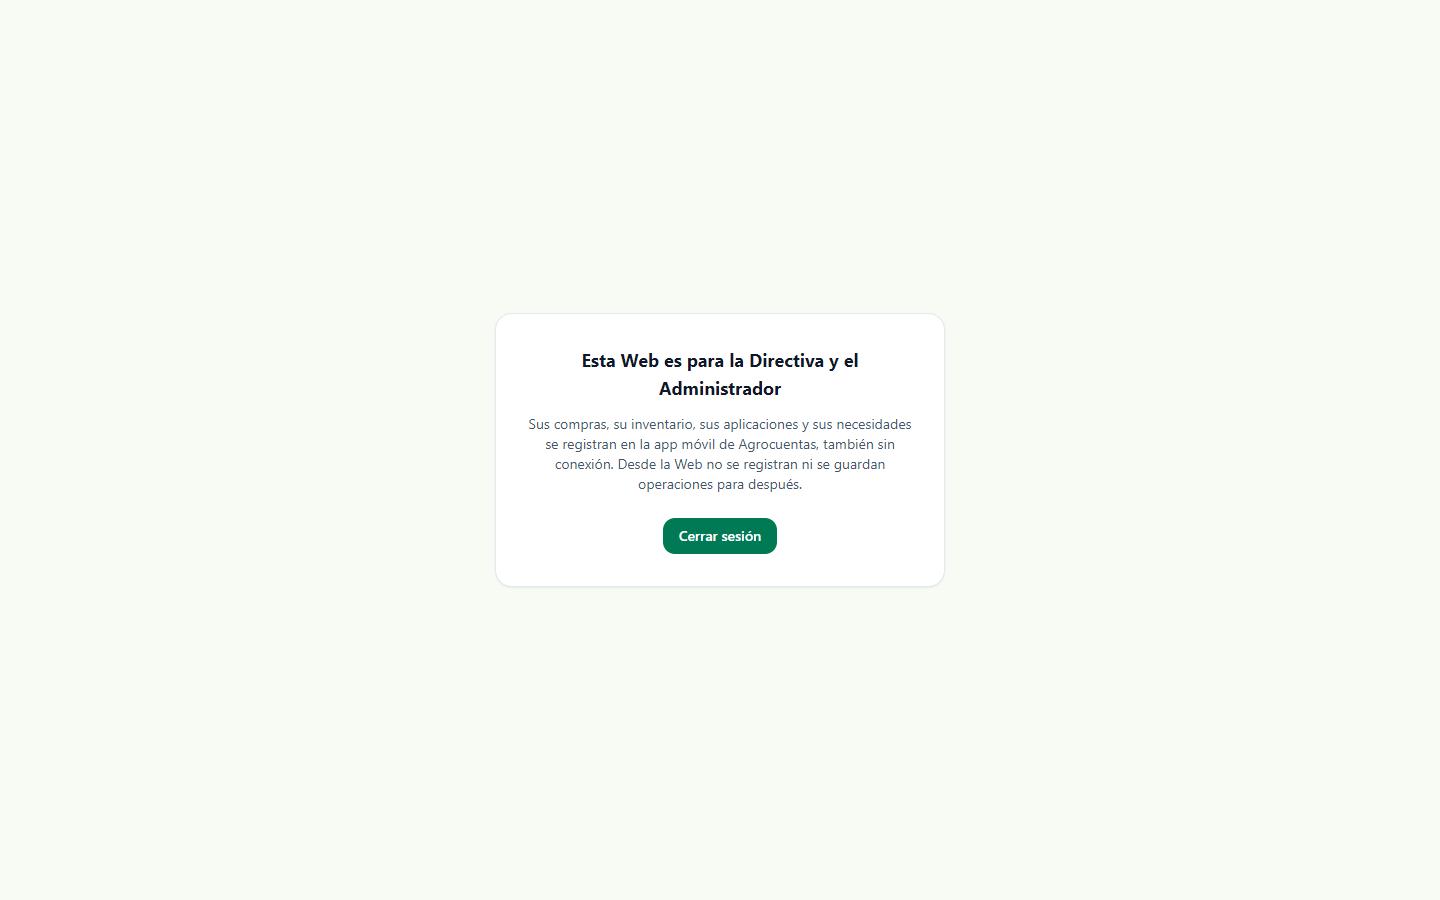
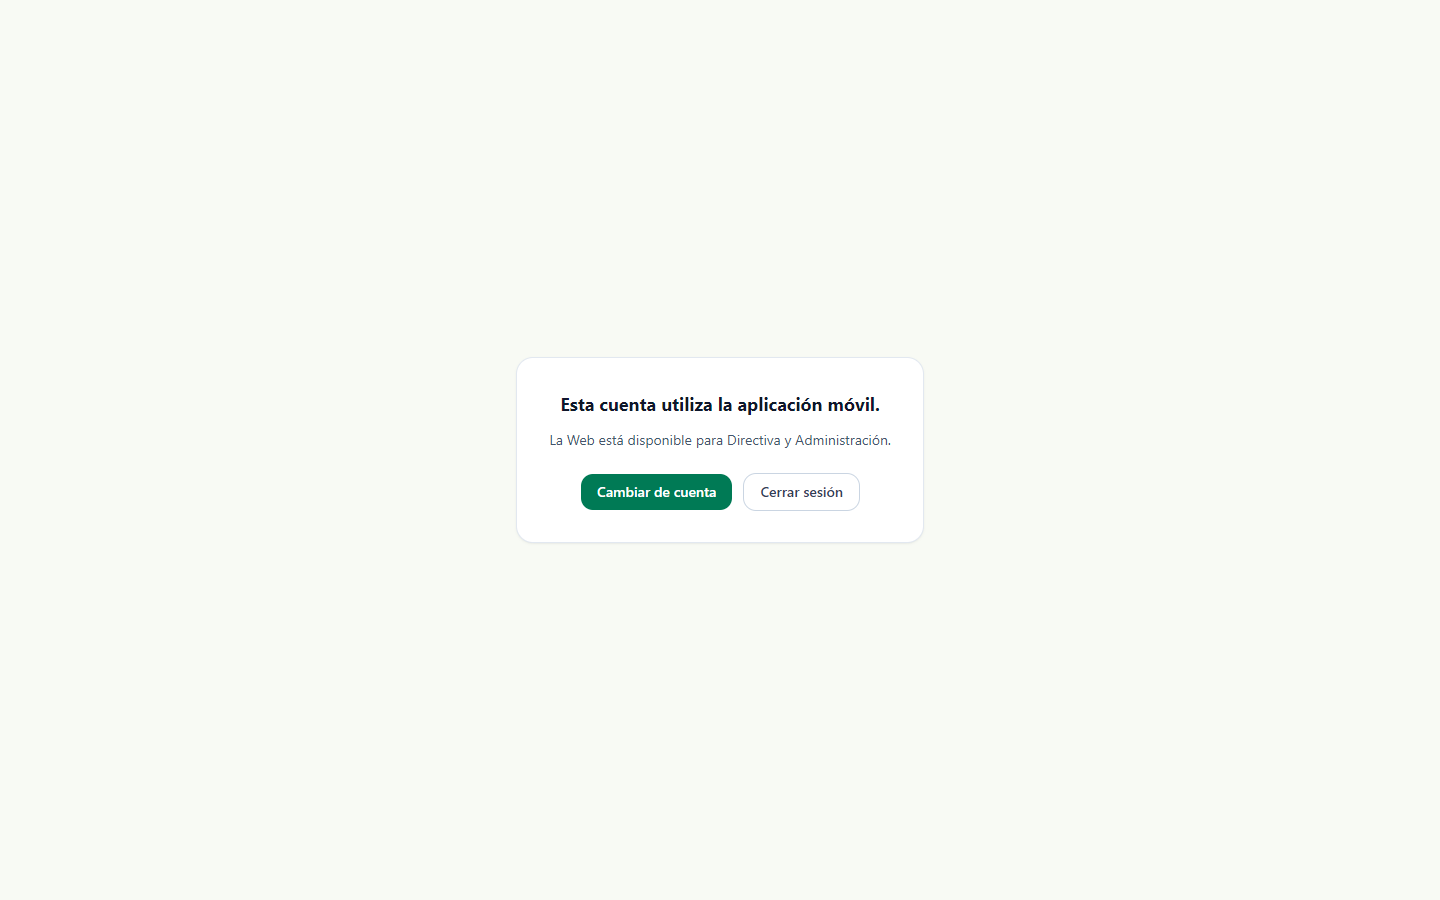
docs(design): el material de rediseño refleja la Web sólo institucional (aviso para AGRICULTOR, sin vistas del agricultor); capture.mjs registra las llamadas a la API

Changed region(s): [[0.375, 0.3733, 0.625, 0.6222]]

diff --git a/docs/design/web-redesign-input/INVENTARIO_VISTAS.md b/docs/design/web-redesign-input/INVENTARIO_VISTAS.md
@@ -2,7 +2,7 @@
 
 Insumo para el rediseño de la Web en Claude Design. Describe lo que hace el código, no lo que debería hacer.
 
-- **Fuente:** `_wt/ET2-BE/Web/src`, rama `feat/etapa3-estimacion-borrador`, commit `9dc80f0`. Redactado leyendo el código; después se recorrió la Web en ejecución y las capturas de INDICE_CAPTURAS.md confirman las pantallas principales.
+- **Fuente:** `_wt/ET2-BE/Web/src`, rama `feat/etapa3-estimacion-borrador`, commit `9dc80f0`, más la limpieza `741e730` (rama `chore/web-solo-institucional`): **la Web es sólo de Directiva y Administración** (decisión del autor del 2026-11-12) y se retiraron las vistas del agricultor. Redactado leyendo el código; después se recorrió la Web en ejecución y las capturas de INDICE_CAPTURAS.md confirman las pantallas principales.
 - **Fecha de redacción:** 2026-11-12.
 - **Convenciones:** «la persona» cuando no se sabe el género. «(no verificado)» marca lo que el código no deja claro. Los permisos que decide el servidor se indican como tales: la Web sólo oculta botones o rutas.
 
@@ -13,7 +13,7 @@ Insumo para el rediseño de la Web en Claude Design. Describe lo que hace el có
 | # | Pantalla (nombre visible) | Ruta | Roles | En el menú |
 |---|---|---|---|---|
 | 1 | Resumen | `/colectivo/resumen` | DIRECTIVA, ADMINISTRADOR | Sí |
-| 2 | Campañas | `/campaigns` | DIRECTIVA, ADMINISTRADOR (AGRICULTOR sólo con la bandera heredada) | Sí |
+| 2 | Campañas | `/campaigns` | DIRECTIVA, ADMINISTRADOR | Sí |
 | 3 | Detalle de campaña | `/campaigns/:id` | Igual que Campañas | No (se abre desde Campañas) |
 | 4 | Necesidades y propuestas | `/colectivo/propuestas` | DIRECTIVA, ADMINISTRADOR | Sí |
 | 5 | Compras conjuntas (lista) | `/colectivo/compras-conjuntas` | DIRECTIVA, ADMINISTRADOR | Sí |
@@ -24,20 +24,13 @@ Insumo para el rediseño de la Web en Claude Design. Describe lo que hace el có
 | 10 | Bitácora | `/audit-logs` | DIRECTIVA, ADMINISTRADOR | Sí (grupo «Administración») |
 | 11 | Usuarios | `/users` | Sólo ADMINISTRADOR | Sí (grupo «Administración», sólo ADMINISTRADOR) |
 | 12 | Ingresar (inicio de sesión) | `/login` | Sin sesión | No |
-| 13 | Aviso «Esta Web es para la Directiva y el Administrador» | `/sin-acceso-web` | Cualquier rol no colectivo (AGRICULTOR) | No |
+| 13 | Aviso «Esta cuenta utiliza la aplicación móvil» | `/sin-acceso-web` | Cualquier rol no colectivo (AGRICULTOR) | No |
 | 14 | Estimación del consumo descargada (copia sin conexión) | `/estimacion/copia-sin-conexion` | Sin guarda de ruta; muestra datos sólo con un contexto local vigente | No (enlaces desde Ingresar y Estimación) |
-| 15 | Calendario operativo | `/calendar` | DIRECTIVA, ADMINISTRADOR (AGRICULTOR con la bandera) | No para el menú colectivo; sí en el menú heredado |
-| 16 | Panel principal (dashboard heredado) | `/dashboard` | Sólo AGRICULTOR con la bandera | Sólo menú heredado |
-| 17 | Parcelas y cultivos | `/plots` | Sólo AGRICULTOR con la bandera | Sólo menú heredado |
-| 18 | Aplicaciones | `/applications` | Sólo AGRICULTOR con la bandera | Sólo menú heredado |
-| 19 | Reportes | `/reports` | Sólo AGRICULTOR con la bandera | Sólo menú heredado |
-| 20 | Inventario | `/inventory` | Sólo AGRICULTOR con la bandera | Sólo menú heredado |
-| 21 | Compras y finanzas | `/purchases` | Sólo AGRICULTOR con la bandera | Sólo menú heredado |
-| 22 | Sincronización offline | `/sync` | Sólo AGRICULTOR con la bandera | Sólo menú heredado |
+| 15 | Calendario operativo («Agenda y alertas») | `/calendar` | DIRECTIVA, ADMINISTRADOR | No (pantalla heredada, por URL) |
 
-«Bandera» = `legacyFarmerWebEnabled()`, es decir, la Web compilada con `VITE_LEGACY_FARMER_WEB=enabled`. Sin ella, el AGRICULTOR sólo llega al aviso de la pantalla 13.
+No hay vistas del agricultor: las páginas `/dashboard`, `/plots`, `/applications`, `/reports`, `/inventory`, `/purchases` y `/sync` y la bandera `VITE_LEGACY_FARMER_WEB` se retiraron el 2026-11-12 (`741e730`). Una cuenta AGRICULTOR, entre por donde entre, sólo llega al aviso de la pantalla 13.
 
-Rutas que sólo redirigen (no son pantallas): `/`, `/colectivo/tendencias`, `/colectivo/estimacion`, `/colectivo/productos`, `/colectivo/reconciliacion`, `/directiva` (ver §5).
+Rutas que sólo redirigen (no son pantallas): `/`, `/colectivo/tendencias`, `/colectivo/estimacion`, `/colectivo/productos`, `/colectivo/reconciliacion`, `/directiva` y cualquier otra ruta (`*`) (ver §5).
 
 ---
 
@@ -63,15 +56,14 @@ Fuente: `lib/navigation.ts` (`COLLECTIVE_MENU`, `LEGACY_MENU`, `menuPathsFor`) y
 - Estado de conexión: «En línea» (oculto < sm) o «Sin conexión» (siempre visible).
 - No lleva el título: cada pantalla pone su único `h1` con `PageHeader`. El título de la pestaña del navegador es «<título> · Agrocuentas».
 
-**Menú heredado del agricultor (sólo con la bandera)**: Dashboard · Campañas · Parcelas · Inventario · Aplicaciones · Calendario · Reportes · Compras · Sincronización (con un contador de operaciones en cola). Barra inferior: Dashboard · Parcelas · Inventario · Aplicaciones.
-
 **Guardas de ruta** (`components/*-route.tsx`)
 - `CollectiveRoute`: DIRECTIVA o ADMINISTRADOR; otro rol va a su pantalla inicial; sin sesión, a `/login`.
 - `AdminRoute`: sólo ADMINISTRADOR.
 - `RoleRoute` (Bitácora): DIRECTIVA o ADMINISTRADOR.
-- `PrivateRoute` (Campañas, Detalle de campaña, Calendario): DIRECTIVA, ADMINISTRADOR o, con la bandera, AGRICULTOR.
-- `FarmerRoute`: sólo AGRICULTOR y sólo con la bandera.
-- Pantalla inicial (`homePathFor`): DIRECTIVA y ADMINISTRADOR → Resumen; otro rol → `/sin-acceso-web` (o `/dashboard` con la bandera).
+- `PrivateRoute` (Campañas, Detalle de campaña, Calendario): DIRECTIVA o ADMINISTRADOR; otro rol, al aviso.
+- Pantalla inicial (`homePathFor`): DIRECTIVA y ADMINISTRADOR → Resumen; otro rol → `/sin-acceso-web`.
+- Ruta comodín (`*`): cualquier ruta desconocida o antigua lleva a la pantalla inicial de la sesión (o a `/login`).
+- El servidor sigue decidiendo los permisos: las guardas sólo evitan mostrar y consultar.
 
 ---
 
@@ -122,7 +114,7 @@ Fuente: `lib/navigation.ts` (`COLLECTIVE_MENU`, `LEGACY_MENU`, `menuPathsFor`) y
 
 ### 4.2 Campañas — `/campaigns`
 
-- **Rol:** DIRECTIVA y ADMINISTRADOR crean, editan, abren y cierran (lo comprueba el servidor). Con la bandera, el AGRICULTOR sólo consulta y ve el aviso «Puede consultar las campañas; sólo la Directiva o el Administrador…» y «Sólo consulta» en cada fila.
+- **Rol:** DIRECTIVA y ADMINISTRADOR crean, editan, abren y cierran (lo comprueba el servidor). La página conserva una guarda defensiva («Sólo consulta») para un rol sin gestión, que la ruta ya no deja entrar.
 - **Objetivo:** gestionar las campañas compartidas del sindicato y abrir su detalle.
 - **Datos:**
   - Tarjeta «Campaña activa»: nombre, «Activa», inicio y fin estimado. Si el fin estimado ya pasó sin cierre registrado, «Fin estimado vencido · sin cierre registrado» (regla de la Web, no un dato del servidor).
@@ -142,7 +134,7 @@ Fuente: `lib/navigation.ts` (`COLLECTIVE_MENU`, `LEGACY_MENU`, `menuPathsFor`) y
 
 ### 4.3 Detalle de campaña — `/campaigns/:id`
 
-- **Rol:** el de Campañas. Para un rol no colectivo (AGRICULTOR con la bandera), las secciones colectivas muestran «Sin permiso».
+- **Rol:** el de Campañas. La página conserva una guarda defensiva (secciones colectivas con «Sin permiso» para un rol no colectivo), que la ruta ya no deja entrar.
 - **Objetivo:** ver en un solo lugar los datos de una campaña, su participación, su versión sellada y sus borradores de propuesta.
 - **Datos:**
   - «Datos generales»: nombre, estado, si es la activa, inicio, fin estimado (con el aviso de vencido), cierre registrado y notas.
@@ -436,12 +428,13 @@ Contenedor con el selector «Vista»: «Productos» (`?vista=productos`, por def
 - **Estados:** «Correo o contraseña incorrectos…», «Demasiados intentos…» (429), «Error de conexión…», botón desactivado sin datos.
 - **Relacionadas:** → pantalla inicial según el rol; → Copia sin conexión.
 
-### 4.13 Aviso «Esta Web es para la Directiva y el Administrador» — `/sin-acceso-web`
+### 4.13 Aviso para una cuenta AGRICULTOR — `/sin-acceso-web`
 
-- **Rol:** quien no es DIRECTIVA ni ADMINISTRADOR, sin la bandera. Un rol colectivo, o cualquiera con la bandera, es redirigido a su inicio.
-- **Objetivo:** explicar que el agricultor registra en la app móvil.
-- **Datos:** el texto «Sus compras, su inventario, sus aplicaciones y sus necesidades se registran en la app móvil…». Sin menú ni datos.
-- **Acciones:** «Cerrar sesión».
+- **Rol:** quien no es DIRECTIVA ni ADMINISTRADOR (el AGRICULTOR usa sólo la app móvil). Un rol colectivo es redirigido a su inicio.
+- **Objetivo:** decir, sin más, que esa cuenta usa la app.
+- **Datos:** «Esta cuenta utiliza la aplicación móvil.» y «La Web está disponible para Directiva y Administración.». Sin menú, sin enlaces, sin enlace de descarga y sin consultas institucionales: sólo se renueva la sesión.
+- **Acciones:** «Cambiar de cuenta» (cierra la sesión y abre el inicio de sesión) y «Cerrar sesión». Cerrar la sesión de la Web no deshabilita la cuenta ni afecta a la app.
+- **Se llega:** al iniciar sesión con esa cuenta y entrando por cualquier URL, incluidas las antiguas del agricultor y las institucionales (comprobado en el navegador, captura `01_acceso/03`).
 
 ### 4.14 Copia de la estimación sin conexión — `/estimacion/copia-sin-conexion`
 
@@ -457,7 +450,7 @@ Contenedor con el selector «Vista»: «Productos» (`?vista=productos`, por def
 
 ### 4.15 Calendario operativo — `/calendar`
 
-- **Rol:** `PrivateRoute`: DIRECTIVA y ADMINISTRADOR pueden abrirla por URL aunque no esté en su menú; el AGRICULTOR, con la bandera. El servidor admite los tres roles.
+- **Rol:** `PrivateRoute`: DIRECTIVA y ADMINISTRADOR pueden abrirla por URL aunque no esté en su menú. El servidor admite los tres roles.
 - **Objetivo:** ver eventos (vencimientos de lote, pagos, aplicaciones, compras programadas, stock bajo, cierre de campaña) y marcarlos.
 - **Datos:** tarjetas «Eventos visibles», «Próximos 7 días» y «Pendientes vencidos»; filtros Campaña, Tipo, Estado (Pendiente por defecto), Desde y Hasta; eventos agrupados por fecha.
 - **Acciones:** «Completar» y «Cancelar» por evento → diálogo «Completar evento» / «Cancelar evento» («Volver», «Confirmar» / «Cancelar evento»).
@@ -465,19 +458,9 @@ Contenedor con el selector «Vista»: «Productos» (`?vista=productos`, por def
 - Pantalla con el estilo anterior al rediseño: sin `PageHeader`, por lo que no tiene título visible (`h1`); la barra superior dice «Agenda y alertas».
 - **Comprobado en el recorrido** (captura `10_administracion/06`): la Directiva la abre por URL y ve el evento «Cierre estimado de Invierno 2026 (DEMO)» con «Completar» y «Cancelar».
 
-### 4.16–4.22 Pantallas heredadas del agricultor (sólo con la bandera)
+### 4.16–4.22 Pantallas del agricultor: retiradas
 
-Rutas `FarmerRoute`: el AGRICULTOR y sólo con `VITE_LEGACY_FARMER_WEB=enabled`. DIRECTIVA y ADMINISTRADOR son redirigidos a su inicio. Conservan el estilo anterior y no usan `PageHeader` (sin `h1`). Se describen a alto nivel; el detalle de cada formulario no se revisó (no verificado).
-
-| Pantalla | Ruta | Contenido principal (según el código) |
-|---|---|---|
-| Panel principal | `/dashboard` | Bienvenida y tarjetas de módulos. Hay tarjetas para ADMINISTRADOR y DIRECTIVA («Panel Directiva», «Usuarios», «Directiva») que nunca se ven, porque sólo entra el AGRICULTOR. |
-| Parcelas y cultivos | `/plots` | Pestañas Parcelas · Cultivos asignados · «Catalogo de cultivos». Botones según la pestaña: «Nueva parcela», «Asignar cultivo», «Nuevo cultivo». Diálogos para crear, editar, inactivar y asignar. |
-| Aplicaciones | `/applications` | Lista de aplicaciones de agroquímicos. «Nueva aplicación» (requiere campaña activa). Diálogos «Registrar aplicación», «Detalle de aplicación», «Anular aplicación». |
-| Reportes | `/reports` | 11 reportes (inventario actual, por campaña, por agricultor, compras por campaña, compras conjuntas, aplicaciones, consumo por producto y por cultivo, vencidos, cuentas y pagos, bitácora por campaña). Filtros y «Actualizar reporte». Sin descarga. |
-| Inventario | `/inventory` | Pestañas Stock · Productos · Lotes · Movimientos · Ajustes; ajustes por pérdida, vencimiento o ajuste. |
-| Compras y finanzas | `/purchases` | Pestañas Nueva compra · Historial · Proveedores · Cuentas por pagar; «Registrar abono». |
-| Sincronización offline | `/sync` | Cola local de operaciones: «Guardar en cola», «Actualizar datos», «Vaciar cola», «Reintentar como nueva», «Descartar». |
+Las pantallas `/dashboard`, `/plots`, `/applications`, `/reports`, `/inventory`, `/purchases` y `/sync`, su guarda `FarmerRoute`, la cola offline y los servicios y tipos que sólo ellas usaban se retiraron el 2026-11-12 (`741e730`). Sus rutas caen en la ruta comodín: el AGRICULTOR ve el aviso (§4.13) y la Directiva o la Administración vuelven a su Resumen.
 
 ---
 
@@ -490,6 +473,7 @@ Rutas `FarmerRoute`: el AGRICULTOR y sólo con `VITE_LEGACY_FARMER_WEB=enabled`.
 | `/colectivo/estimacion` | `/colectivo/historico?vista=estimacion`. |
 | `/colectivo/productos` | `/colectivo/catalogo?vista=productos`. |
 | `/colectivo/reconciliacion` | `/colectivo/catalogo?vista=equivalencias`. |
+| `*` (cualquier otra, incluidas las antiguas del agricultor) | Pantalla inicial de la sesión: Resumen, aviso (§4.13) o `/login`. |
 | `/directiva` | `/colectivo/propuestas` (conserva `?campaign=`). La página heredada «Panel Directiva» (`pages/directiva.page.tsx`, que ejecutaba compras y pagos) sigue en el código pero ninguna ruta la muestra. |
 
 ---
@@ -502,7 +486,6 @@ Rutas `FarmerRoute`: el AGRICULTOR y sólo con `VITE_LEGACY_FARMER_WEB=enabled`.
 - **Aviso «sin acceso Web»** para el AGRICULTOR.
 - **Calendario operativo**: accesible por URL para la Directiva y el Administrador.
 - **Permiso del sindicato «Sustituir responsable»**: plegado al final de la lista de Compras conjuntas, no en Usuarios ni en Administración.
-- **Páginas heredadas del agricultor** (§4.16–4.22) detrás de la bandera.
 - **Componentes de página no enrutados**: `CollectiveTrendsPage`, `EstimationPage`, `ProductsPage` y `ProductReconciliationPage` envuelven las vistas en su propio armazón, pero `App.tsx` no los usa (sólo se usan las vistas dentro de los contenedores).
 - **Páginas de desarrollo** (sólo con `npx vite`; `vite build` no las incluye):
   - `/src/dev/break-ui.html?datos=worst|demo|empty|one&pantalla=propuestas|historico|catalogo&vista=…`: Necesidades y propuestas, Histórico y Catálogo con datos sintéticos; rechaza toda escritura.
@@ -514,6 +497,5 @@ Rutas `FarmerRoute`: el AGRICULTOR y sólo con `VITE_LEGACY_FARMER_WEB=enabled`.
 
 - Cuándo envía el servidor `can_cancel_or_close` a quien no es responsable ni tiene «Administrar».
 - ~~El contenido del Calendario para la Directiva~~: comprobado en el recorrido (captura `10_administracion/06`). Sigue sin decidir si debe estar en la Web colectiva.
-- El detalle de los formularios de las pantallas heredadas del agricultor (§4.16–4.22).
 - Si la hora que se escribe y se muestra como «hora del servidor» en las convocatorias coincide con la del servidor: el campo `datetime-local` y las fechas usan la zona horaria del navegador.
 - Si el botón «Abrir» de Campañas aparece en una campaña ya abierta que no es la activa: la condición del código (`!isActive && !terminal`) lo permite; no se comprobó si el servidor puede devolver varias campañas abiertas.

diff --git a/docs/design/web-redesign-input/README.md b/docs/design/web-redesign-input/README.md
@@ -14,8 +14,8 @@ Material para rediseñar la Web de la Directiva en Claude Design y revisarlo en 
 
 | Pieza | Valor |
 |---|---|
-| Composición | Rama `feat/etapa3-estimacion-borrador`, commit **`9dc80f0`** (worktree `_wt/ET2-BE`). Este paquete se preparó en la rama `docs/web-redesign-input`, que parte de ese commit (worktree `_wt/WEB-DESIGN-INPUT`) |
-| Web en ejecución | Servidor de desarrollo Vite en `127.0.0.1:5175`, que sirve el árbol de `_wt/ET2-BE` en `9dc80f0` (sin cambios locales en `Web/src`). No es un build de producción |
+| Composición | Rama `feat/etapa3-estimacion-borrador`, commit **`9dc80f0`** (worktree `_wt/ET2-BE`), **más** la limpieza **`741e730`** de la rama `chore/web-solo-institucional` (worktree `_wt/WEB-SOLO-INST`): la Web es sólo de Directiva y Administración y se retiraron las vistas del agricultor. Este paquete está en la rama `docs/web-redesign-input`, que parte de `9dc80f0` e integra esa limpieza (worktree `_wt/WEB-DESIGN-INPUT`) |
+| Web en ejecución | Servidor de desarrollo Vite en `127.0.0.1:5175`, que sirve el árbol de `_wt/ET2-BE` en `9dc80f0` (sin cambios locales en `Web/src`), para las capturas institucionales. La limpieza no cambia ninguna pantalla institucional; el aviso del agricultor (`01_acceso/03`) y la verificación de acceso por rol se hicieron con Vite en `127.0.0.1:5176` sobre `741e730`. No es un build de producción |
 | API en ejecución | NestJS en el puerto 3350, desde el `dist` compilado el 2026-11-12 a las 12:03 a partir de `49ed870`. Entre `49ed870` y `9dc80f0`, `Back/src` sólo añade una prueba (`joint-purchase-calls.postgres.spec.ts`): el código de la API en ejecución es el de la composición |
 | Base | PostgreSQL del contenedor aislado `agro_et1_pg` (puerto 15434, sólo en `localhost`, base `agro_demo`), con 23 migraciones aplicadas; la última es `20261112180000_e2_pa_responsible_substitution` |
 | Datos | Sintéticos: el sindicato «Sindicato DEMO · datos sintéticos», con 15 cuentas de agricultor, 5 de Directiva y 2 de Administrador, 12 campañas «Invierno 2015–2026 (DEMO)», convocatorias en todos los estados, productos por identificar y estimaciones. No hay datos reales ni de la DEMO oficial |
@@ -51,6 +51,7 @@ No hizo falta crear una rama de composición: todo lo terminado está en `9dc80f
 | Estimación integrada en las propuestas (referencia fijada, E3-P1) | `f673f95` (Back), `2a25386`, `3b2099b` y `219d959` (Web) | Sí | `03_propuestas/02`, `03`, `07`, `08` |
 | Origen de la convocatoria (E3-P2) | `c87c352`, `fa44b5f` (Back), `91e9ef2` (Web) | Sí | `05_convocatorias/04`, `10` |
 | Exportación Excel y retirada del CSV | `eeaf327` (Back: rutas CSV retiradas), `7acf0a1` y `d5dc9cc` (Web) | Sí | `04_excel/*` y «Descargar Excel» en las pantallas |
+| Web sólo de Directiva y Administración (vistas del agricultor retiradas; aviso para la cuenta AGRICULTOR) | `741e730` (rama `chore/web-solo-institucional`) | Sí | `01_acceso/03` |
 
 La Web **no tiene ninguna exportación en PDF**: el PDF existe sólo en la app móvil.
 
@@ -59,6 +60,7 @@ La Web **no tiene ninguna exportación en PDF**: el PDF existe sólo en la app m
 - **Git:** contención de `main` y de la integración del rediseño; revisión de las ramas con commits fuera de la composición; ningún cambio local en `Web/src` ni en `Back/src`.
 - **Entorno:** API 3350 con health 200; Web 5175 con 200; 23 migraciones aplicadas. Sin túnel y sin exponer PostgreSQL.
 - **Capturas:** 109 PNG (102 de la Web, de ellas 17 de estados no reales rotulados, y 7 de Excel), revisadas en hojas de miniaturas. Un detector de la pantalla de inicio de sesión confirmó que ninguna captura con sesión quedó en `/login` (las primeras rondas sí; se rehicieron, ver LIMITACIONES). El índice coincide con los archivos.
+- **Acceso por rol tras la limpieza (`741e730`):** Web completa 586/586, `tsc` y build correctos. En el navegador, una cuenta AGRICULTOR, al iniciar sesión y por 14 URL directas, sólo ve el aviso, sin consultas institucionales; Directiva y Administración entran con normalidad (evidencia `docs/evidence/WEB_SOLO_INSTITUCIONAL_2026-11-12.md`).
 - **Excel:** el borrador actual se descargó desde la Web y se abrió en Microsoft Excel. Se capturó cada hoja y se registró el filtro y el panel inmovilizado (`capturas/04_excel/_excel_abierto_borrador.json`).
 - **Datos sensibles:** sin contraseñas (se fijaron claves de un solo uso en la base aislada y nunca se escribieron en archivos), sin tokens ni datos reales. Se recortó la barra de título de Excel, que mostraba la cuenta de Office del equipo. Los correos visibles son sintéticos (`@example.test`).
 - **Enlaces y ZIP:** ver la entrega.

diff --git a/docs/design/web-redesign-input/INDICE_CAPTURAS.md b/docs/design/web-redesign-input/INDICE_CAPTURAS.md
@@ -12,7 +12,7 @@ Columnas: archivo(s) · ruta · rol · estado · qué muestra.
 |---|---|---|---|---|
 | [01_inicio_sesion__escritorio.png](capturas/01_acceso/01_inicio_sesion__escritorio.png) · [01_inicio_sesion__movil.png](capturas/01_acceso/01_inicio_sesion__movil.png) | `/login` | Sin sesión | vacío | Inicio de sesión (vacío) |
 | [02_inicio_sesion_error__escritorio.png](capturas/01_acceso/02_inicio_sesion_error__escritorio.png) | `/login` | Sin sesión | error | Credenciales incorrectas (cuenta inexistente, sintética) |
-| [03_agricultor_sin_acceso_web__escritorio.png](capturas/01_acceso/03_agricultor_sin_acceso_web__escritorio.png) · [03_agricultor_sin_acceso_web__movil.png](capturas/01_acceso/03_agricultor_sin_acceso_web__movil.png) | `/sin-acceso-web` | AGRICULTOR | sin permiso | Una cuenta AGRICULTOR no tiene Web: aviso |
+| [03_agricultor_sin_acceso_web__escritorio.png](capturas/01_acceso/03_agricultor_sin_acceso_web__escritorio.png) · [03_agricultor_sin_acceso_web__movil.png](capturas/01_acceso/03_agricultor_sin_acceso_web__movil.png) | `/sin-acceso-web` | AGRICULTOR | sin permiso | Una cuenta AGRICULTOR al iniciar sesión: aviso breve, sin menú ni datos, con «Cambiar de cuenta» y «Cerrar sesión» |
 
 ## 2. Resumen, selección de campaña y cobertura
 

diff --git a/docs/design/web-redesign-input/LIMITACIONES.md b/docs/design/web-redesign-input/LIMITACIONES.md
@@ -2,7 +2,7 @@
 
 ## Qué cubre y qué no
 
-- **Web de la Directiva y del Administrador.** Las pantallas heredadas del agricultor que sólo se activan con `VITE_LEGACY_FARMER_WEB` no se capturaron, porque la Web en ejecución no tiene esa bandera. Se describen en INVENTARIO §4.16–4.22 a partir del código.
+- **Web de la Directiva y del Administrador.** Las vistas del agricultor se retiraron del código (`741e730`); no hay nada que capturar de ellas. El aviso para una cuenta AGRICULTOR se capturó con la rama limpia (Vite en 5176).
 - **Servidor de desarrollo.** La Web se capturó con Vite en modo desarrollo, no con un build de producción. El código es el mismo, pero no se midieron tiempos ni el comportamiento del service worker.
 - **Ancho móvil.** Las capturas «móvil» se hicieron a 390 px en Edge de escritorio, no en un teléfono. Las primeras se tomaron con la emulación táctil de Puppeteer y las rehechas sólo con el ancho. El diseño de la Web depende del ancho.
 - **Estados no reproducibles con el entorno real.** Están en `capturas/99_simulados/` y rotulados:

diff --git a/docs/design/web-redesign-input/BRIEF_CLAUDE_DESIGN.md b/docs/design/web-redesign-input/BRIEF_CLAUDE_DESIGN.md
@@ -15,7 +15,7 @@ La Web **no** es una herramienta del agricultor y **no** registra compras, pagos
 |---|---|---|
 | Miembro de la Directiva | DIRECTIVA | Todo lo colectivo: resumen, campañas, necesidades y borradores, convocatorias que crea o en las que tiene permiso, catálogo, histórico y bitácora |
 | Administración del sindicato (por ejemplo, el presidente) | ADMINISTRADOR | Lo mismo que la Directiva, más **Usuarios** y el permiso del sindicato **«Sustituir responsable»**, que concede a personas concretas |
-| Agricultor | AGRICULTOR | **No tiene Web**: sólo ve un aviso que lo remite a la app |
+| Agricultor | AGRICULTOR | **No tiene Web** (sólo usa la app móvil): al entrar ve «Esta cuenta utiliza la aplicación móvil. La Web está disponible para Directiva y Administración.», con «Cambiar de cuenta» y «Cerrar sesión». El diseño no debe incluir vistas, menús ni accesos para el agricultor |
 
 Dentro de cada convocatoria hay **permisos por persona**:
 
